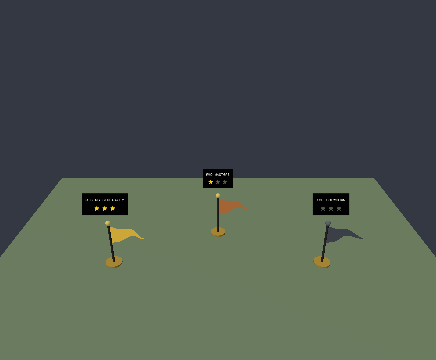
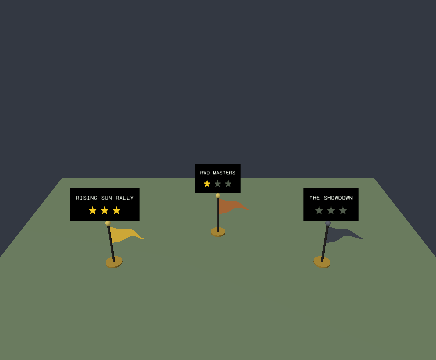
Map pins: 1.5x bigger readout boxes + make the menu box a click target
Bump PIN_LABEL_PIXEL_SIZE 0.0017 -> 0.00255 so every rally readout box renders
1.5x bigger (map_pin_capture mirrors it; capture regenerated). Each unlocked pin
now carries TWO hit spheres via a shared _add_pin_hit helper — one over the
flag/pole and one over the floating menu box — both routed to _on_pin_input, so
a click on the menu itself enters the rally just like a click on the flag. The
box target's radius (0.32) stays under half the closest pin spacing (~0.72 m) so
neighbouring menus' targets don't overlap. Also renamed mark_panel_focused's
param to drop a panel()-shadowing warning. Test + menus.md updated.

Claude-Session: https://claude.ai/code/session_01GwYc7VQazMdbq2QAuRU26r

Changed region(s): [[0.1491, 0.5194, 0.328, 0.6111], [0.6858, 0.5194, 0.8349, 0.6111], [0.4472, 0.4583, 0.5665, 0.55]]

diff --git a/rally/features/menus.md b/rally/features/menus.md
@@ -213,9 +213,11 @@ flag's pennant colour is the medal ladder (`RallyFlag.state_color`): locked = ch
 grey (with a grey finial, so it reads as disabled), 0 stars = race red, then
 bronze / silver / gold for 1 / 2 / 3 stars — so the colour alone conveys the best
 result, with the stars as the exact readout. Each
-unlocked pin carries a pickable `Area3D` (rally id bound to the handler) and its
-`rally_id`/`locked` in metadata; the **showdown** pin is grey + **non-pickable**
-until every other rally is completed. A progress meter sits on the HUD. **Drag to pan** the map (mouse, or
+unlocked pin carries **two** pickable `Area3D` hit spheres bound to the same handler
+(`_add_pin_hit`, rally id bound) — one over the flag/pole and one over the floating
+**readout box itself**, so a click on the menu enters the rally just like a click on
+the flag — plus its `rally_id`/`locked` in metadata; the **showdown** pin is grey +
+**non-pickable** until every other rally is completed. A progress meter sits on the HUD. **Drag to pan** the map (mouse, or
 finger via `emulate_mouse_from_touch`): `_pan_table` shifts the camera in the table
 plane, clamped to the map extents (`hq_table_pan_speed`). Pin selection fires on
 **release** and only if the press wasn't a drag (`_table_dragged`), so panning never